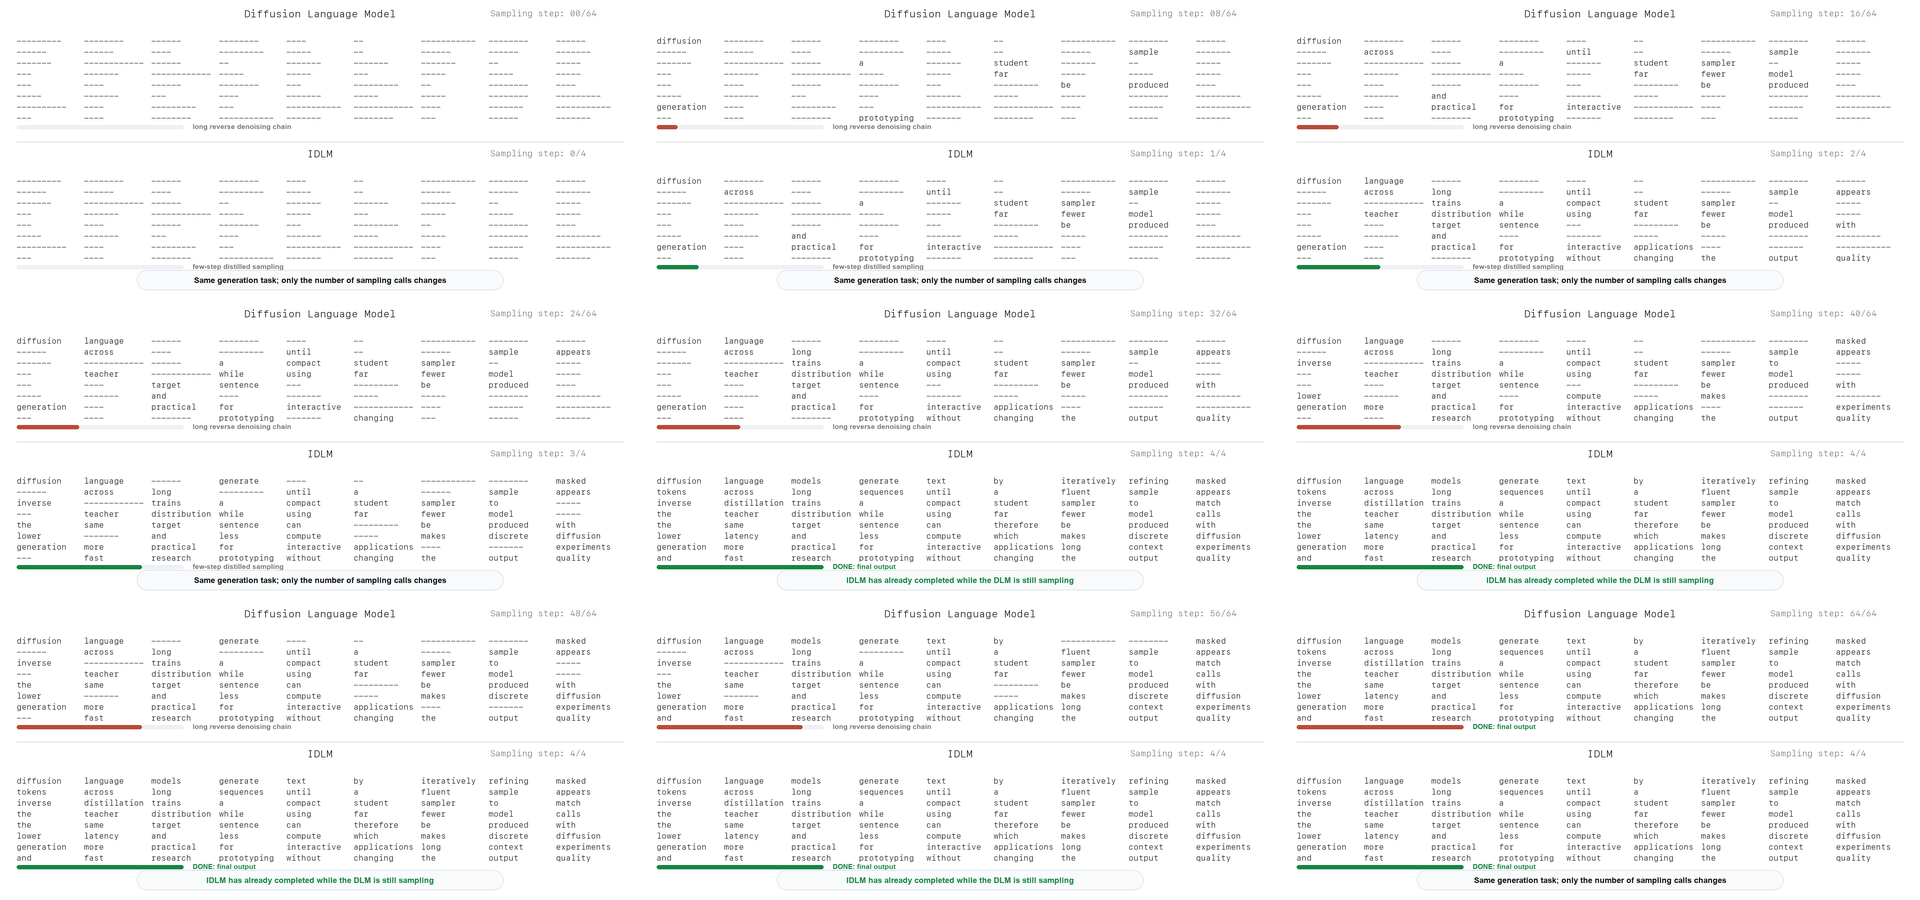
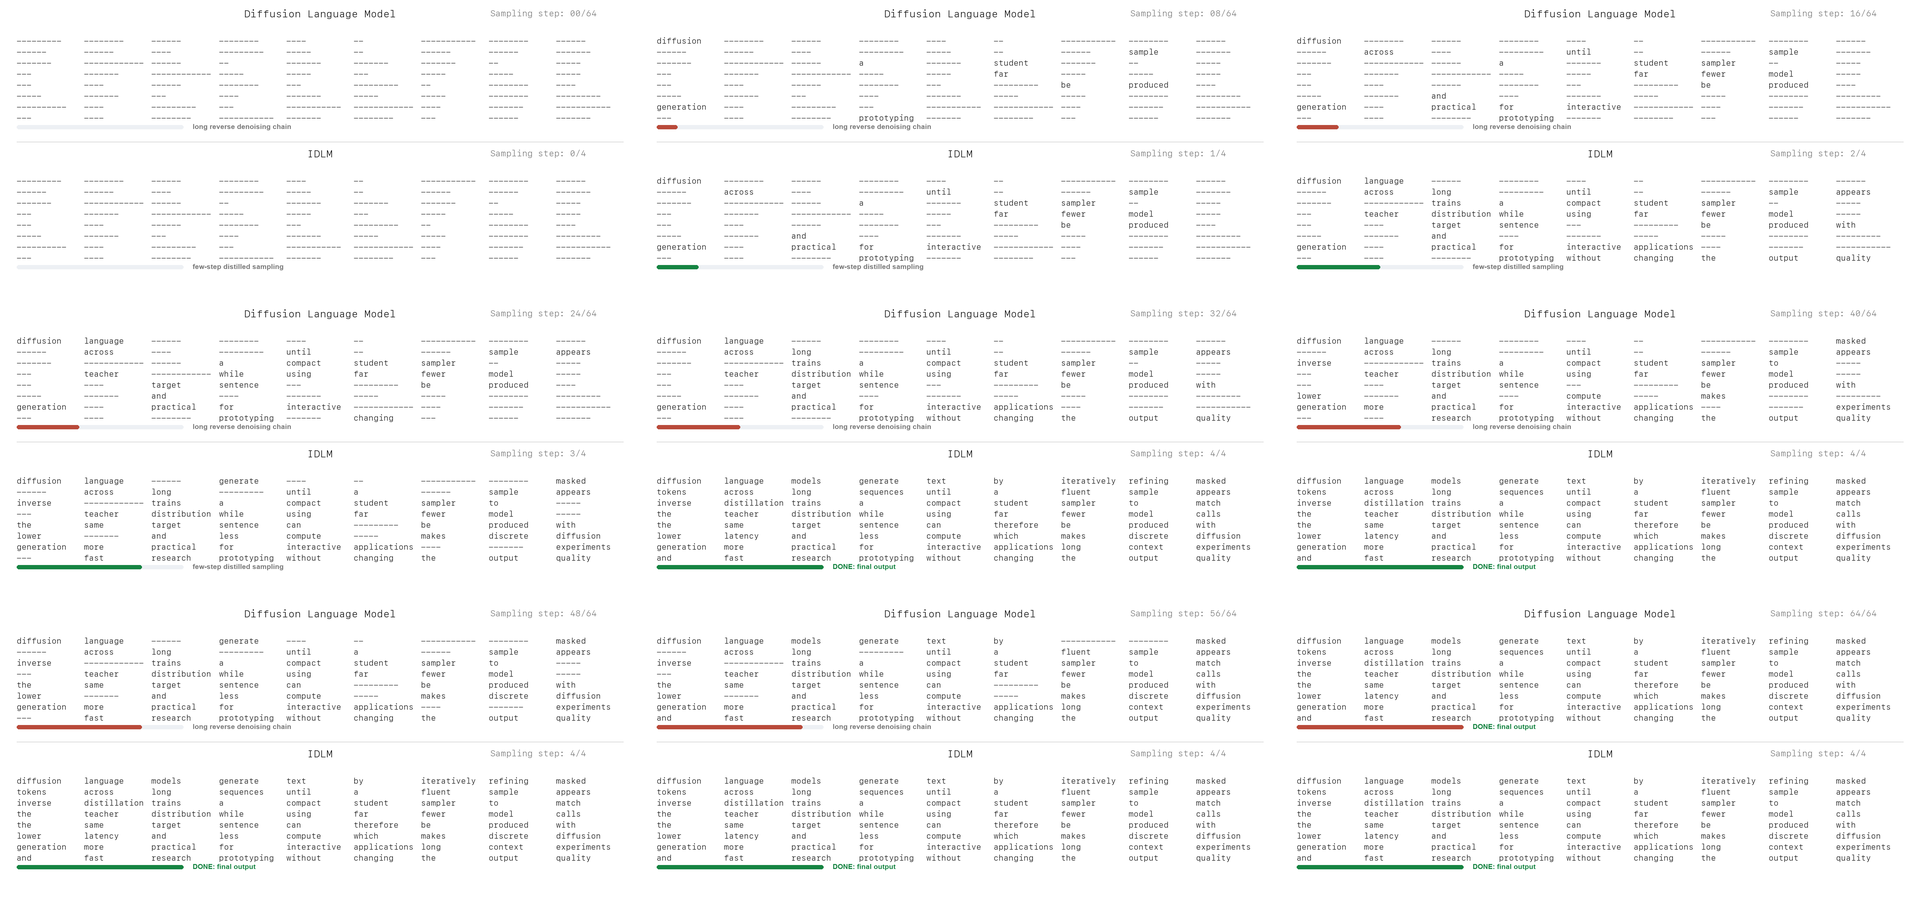
Remove GIF bottom callout

diff --git a/scripts/generate_generation_gif.py b/scripts/generate_generation_gif.py
@@ -153,23 +153,6 @@ def draw_strip(draw, title, y, calls, total, color, tracker):
         draw_status(draw, y + 360, calls, total, color, "DONE: final output", "long reverse denoising chain", tracker)
 
 
-def draw_callout(draw, frame, tracker):
-    idlm_done = IDLM_CALLS[frame] == IDLM_TOTAL_CALLS
-    dlm_done = DLM_CALLS[frame] == DLM_TOTAL_CALLS
-    if idlm_done and not dlm_done:
-        text = "IDLM has already completed while the DLM is still sampling"
-        color = GREEN
-    else:
-        text = "Same generation task; only the number of sampling calls changes"
-        color = TEXT
-
-    box = (410, 810, 1510, 870)
-    rounded(draw, box, 30, "#f8fafc", "#d8dfe8", 2)
-    bbox = draw.textbbox((0, 0), text, font=CALLOUT)
-    x = (WIDTH - (bbox[2] - bbox[0])) / 2
-    draw_text(draw, (x, 827), text, color, CALLOUT, tracker, box, "callout")
-
-
 def draw_frame(frame):
     image = Image.new("RGB", (WIDTH, HEIGHT), BG)
     draw = ImageDraw.Draw(image)
@@ -178,7 +161,6 @@ def draw_frame(frame):
     draw_strip(draw, "Diffusion Language Model", 15, DLM_CALLS[frame], DLM_TOTAL_CALLS, RED, tracker)
     draw.line((50, 425, WIDTH - 50, 425), fill="#d8d8d8", width=2)
     draw_strip(draw, "IDLM", 435, IDLM_CALLS[frame], IDLM_TOTAL_CALLS, GREEN, tracker)
-    draw_callout(draw, frame, tracker)
     return image, tracker
 
 
